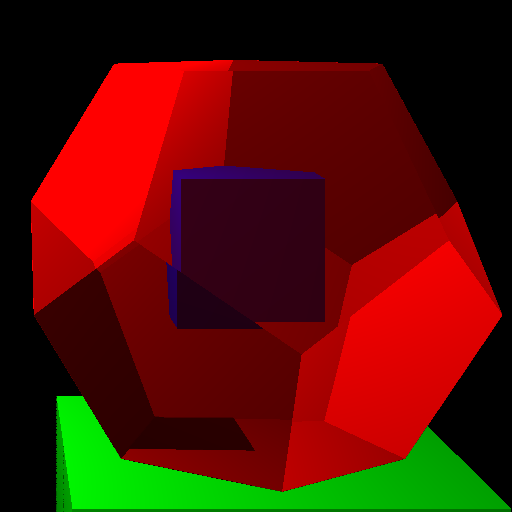
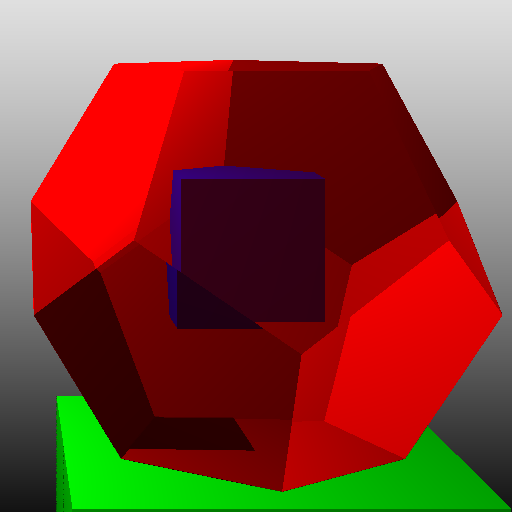
Add background

diff --git a/Source/main.cpp b/Source/main.cpp
@@ -159,6 +159,8 @@ render(int size) {
             
             if (hit.hit) {
                 buffer[x + y * size] = hit.color;
+            } else {
+                buffer[x + y * size] = Color(cos((float)y / size + 0.5), cos((float)y / size + 0.5), cos((float)y / size + 0.5), 1);
             }
         }
     }
